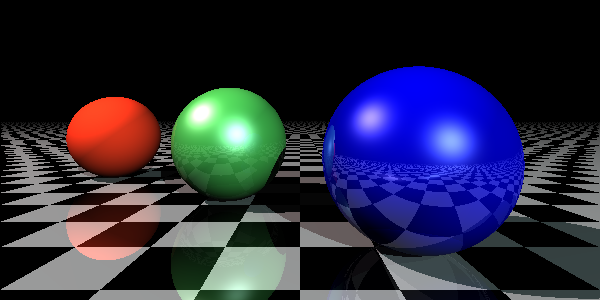
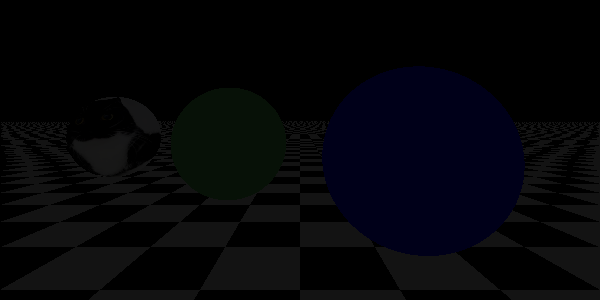
Refactor ambient lighting to belong to the scene

diff --git a/src/tracing.py b/src/tracing.py
@@ -4,57 +4,59 @@ import numpy as np
 from src.vec3 import Vec3, Rgb
 from src.constants import FARAWAY, MAX_BOUNCES
 import math
+from src.shapes.base import BaseShape
 
-def raytrace(O: Vec3, D: Vec3, scene: Scene, bounce: int = 0) -> Rgb:
-    # O is the ray origin, D is the normalized ray direction
-    # scene is a list of Sphere objects (see below)
-    # bounce is the number of the bounce, starting at zero for camera rays
+def raytrace(ray_origin: Vec3, ray_direction: Vec3, scene: Scene, bounce: int = 0) -> Rgb:
+    """Trace the given ray to find its RGB colour."""
 
     objects = scene.objects
-    distance_map = {obj.intersect(O, D): obj for obj in objects}
+    distance_map = {obj.intersect(ray_origin, ray_direction): obj for obj in objects}
     shortest_distance = min(distance_map.keys())
     nearest_object = distance_map[shortest_distance]
 
-    colour = Rgb(0, 0, 0)
     if shortest_distance != FARAWAY:
-        return illuminate(nearest_object, O, D, shortest_distance, scene, bounce)
+        return illuminate(nearest_object, ray_origin, ray_direction, shortest_distance, scene, bounce)
     return Rgb(0, 0, 0)
 
 
-def illuminate(obj, O, D, d, scene: Scene, bounce):
-    M = (O + D * d)                         # intersection point
-    N = obj.normalAt(M)                    # normal
-    toO = (scene.camera - M).norm()                    # direction to ray origin
-    nudged = M + N * .0001                  # M nudged to avoid itself
+def illuminate(obj: BaseShape, ray_origin: Vec3, ray_direction: Vec3, distance: float, scene: Scene, bounce: int) -> Rgb:
+    """Return the object's illumination at the point it intersects with the ray."""
+
+    ipoint = (ray_origin + ray_direction * distance)                    # intersection point
+    normal = obj.normalAt(ipoint)                                       # normal
+
+    # TODO: check this
+    to_ray_origin = (scene.camera - ipoint).norm()                      # direction to ray origin
+    nudged = ipoint + normal * .0001                                    # ipoint nudged to avoid intersecting with the same object
     objects = scene.objects
 
     # Ambient
-    diffuse_colour = obj.diffuseColourAt(M)
-    colour = Rgb(0.05, 0.05, 0.05).compwise_mul(diffuse_colour)
+    diffuse_colour = obj.diffuseColourAt(ipoint)
+    colour = scene.ambient_light.compwise_mul(diffuse_colour)
 
     # Calculate diffuse and specular illumination from each light source
     for light_source in scene.light_sources:
-        toL = (light_source.position - M).norm()              # direction to light
+        to_light = (light_source.position - ipoint).norm()              # direction to light
 
         # Shadow: find if the point is shadowed or not.
-        # This amounts to finding out if M can see the light
-        light_distances = [s.intersect(nudged, toL) for s in objects]
+        # This is equivalent to finding if other objects are between ipoint and the light source
+        light_distances = [o.intersect(nudged, to_light) for o in objects]
         shortest_light_distance = min(light_distances)
-        sees_light = shortest_light_distance == obj.intersect(nudged, toL)
+        sees_light = shortest_light_distance == obj.intersect(nudged, to_light)
 
         if sees_light:
             # Lambert shading (diffuse)
-            lv = max(N.dot(toL), 0)
+            lv = max(normal.dot(to_light), 0)
             colour += light_source.colour.compwise_mul(diffuse_colour) * lv
 
             # Blinn-Phong shading (specular)
-            phong = N.dot((toL + toO).norm())
+            phong = normal.dot((to_light + to_ray_origin).norm())
             colour += light_source.colour.compwise_mul(obj.specular_colour) * math.pow(np.clip(phong, 0, 1), obj.roughness)
 
     # Reflection
     if bounce < MAX_BOUNCES:
-        rayD = (D - N * 2 * D.dot(N)).norm()
+        reflection_direction = (ray_direction - normal * 2 * ray_direction.dot(normal)).norm()
         colour *= 1 - obj.reflectivity
-        colour += raytrace(nudged, rayD, scene, bounce + 1) * obj.reflectivity
+        colour += raytrace(nudged, reflection_direction, scene, bounce + 1) * obj.reflectivity
 
     return colour

diff --git a/example_scene.py b/example_scene.py
@@ -9,18 +9,18 @@ HEIGHT = 300
 RATIO = WIDTH / HEIGHT
 
 scene = Scene(
-    Vec3(0, 0.35, -1),
-    Screen(
-        (
+    camera=Vec3(0, 0.35, -1),
+    screen=Screen(
+        corners=(
             Vec3(-1, 1 / RATIO + 0.25, 0),
             Vec3(1, 1 / RATIO + 0.25, 0),
             Vec3(1, -1 / RATIO + 0.25, 0),
             Vec3(-1, -1 / RATIO + 0.25, 0)
         ),
-        WIDTH,
-        HEIGHT
+        width=WIDTH,
+        height=HEIGHT
     ),
-    [
+    objects=[
         Sphere(                                     # Blue sphere
             diffuse_colour=Rgb(0, 0, 1),
             centre=Vec3(.75, .1, 1),
@@ -49,7 +49,8 @@ scene = Scene(
             radius=99999
         )
     ],
-    [
+    ambient_light=Rgb(.1, .1, .1),
+    light_sources=[
         LightSource(
             position=Vec3(5, 5, -10),
             colour=Rgb(0.8, 1, 1)

diff --git a/src/scene.py b/src/scene.py
@@ -19,6 +19,8 @@ class Screen:
     height: int
 
     def get_pixel_locations(self) -> list[Vec3]:
+        """Return the pixels through which the rays will be traced."""
+
         w = self.width
         h = self.height
         corners = self.corners
@@ -40,9 +42,12 @@ class Scene:
     camera: Vec3
     screen: Screen
     objects: list[BaseShape]
+    ambient_light: Rgb
     light_sources: list[LightSource]
 
     def get_rays(self) -> list[Vec3]:
+        """Return the directions of rays to be traced."""
+
         pixel_locations = self.screen.get_pixel_locations()
 
         return [(ploc - self.camera).norm() for ploc in pixel_locations]
